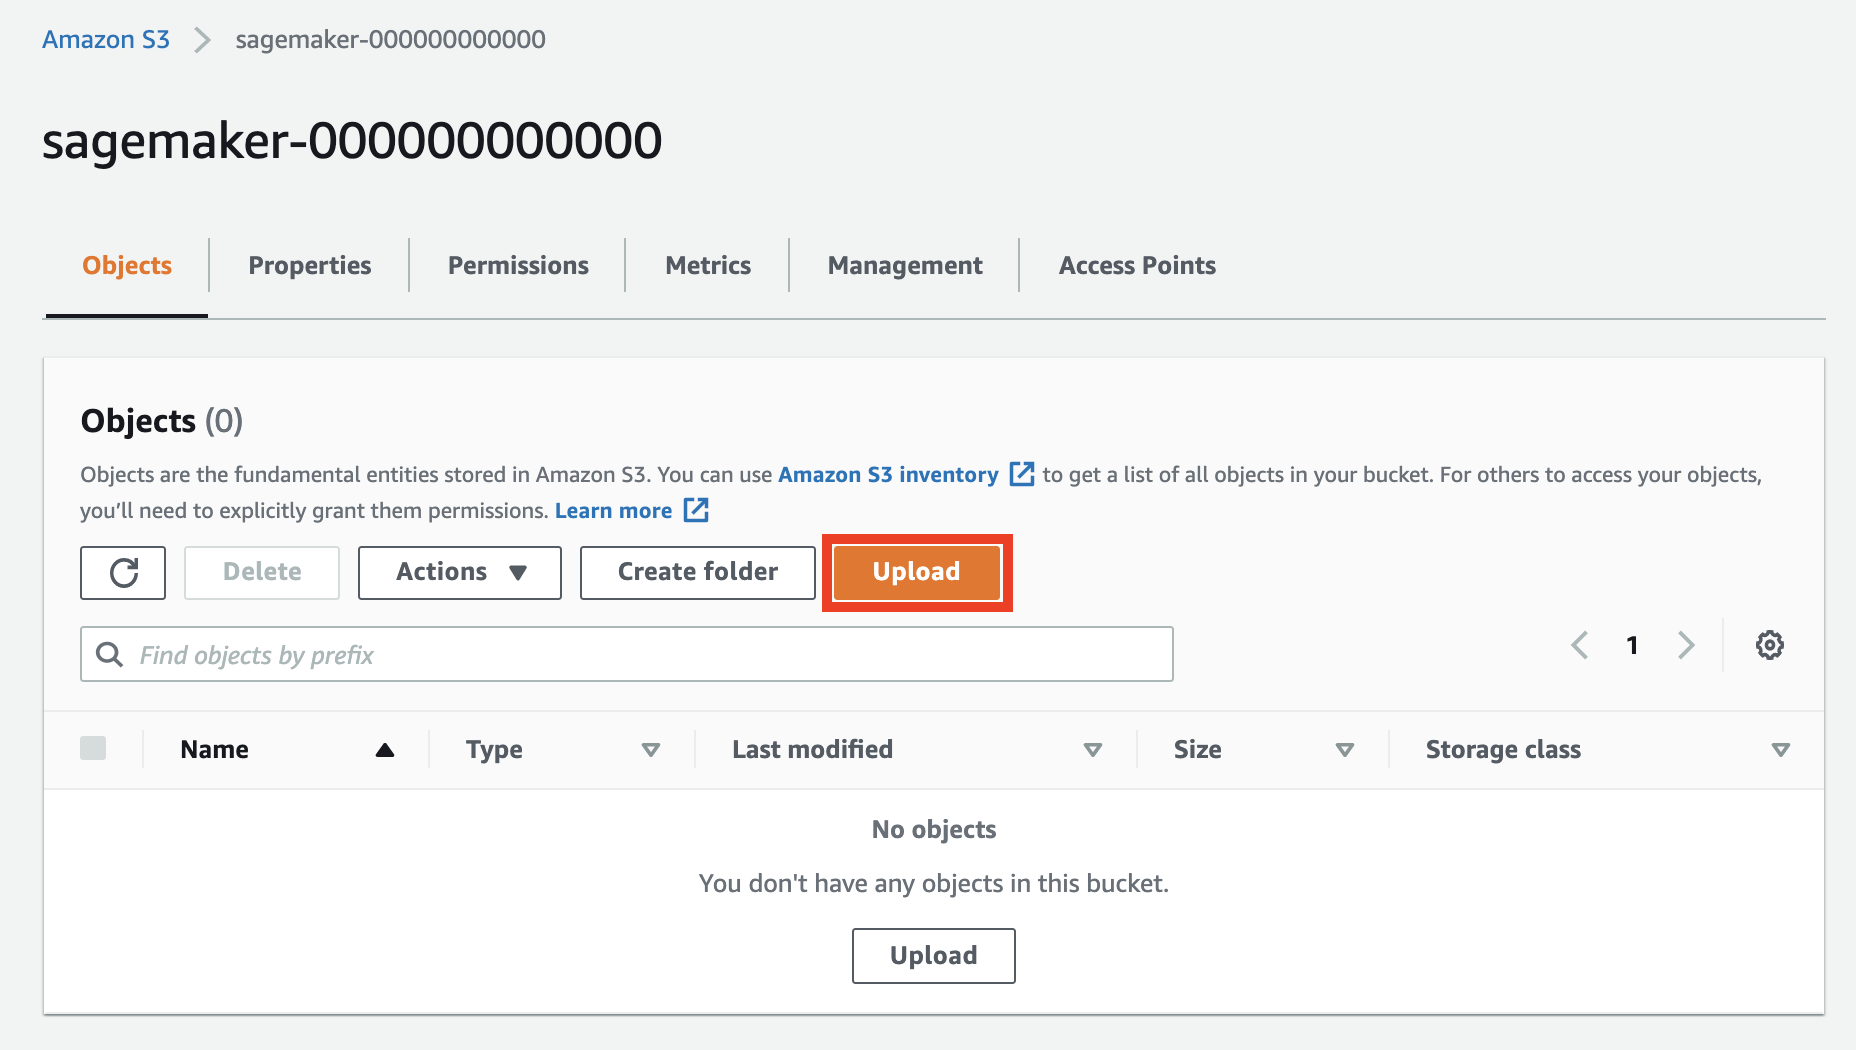
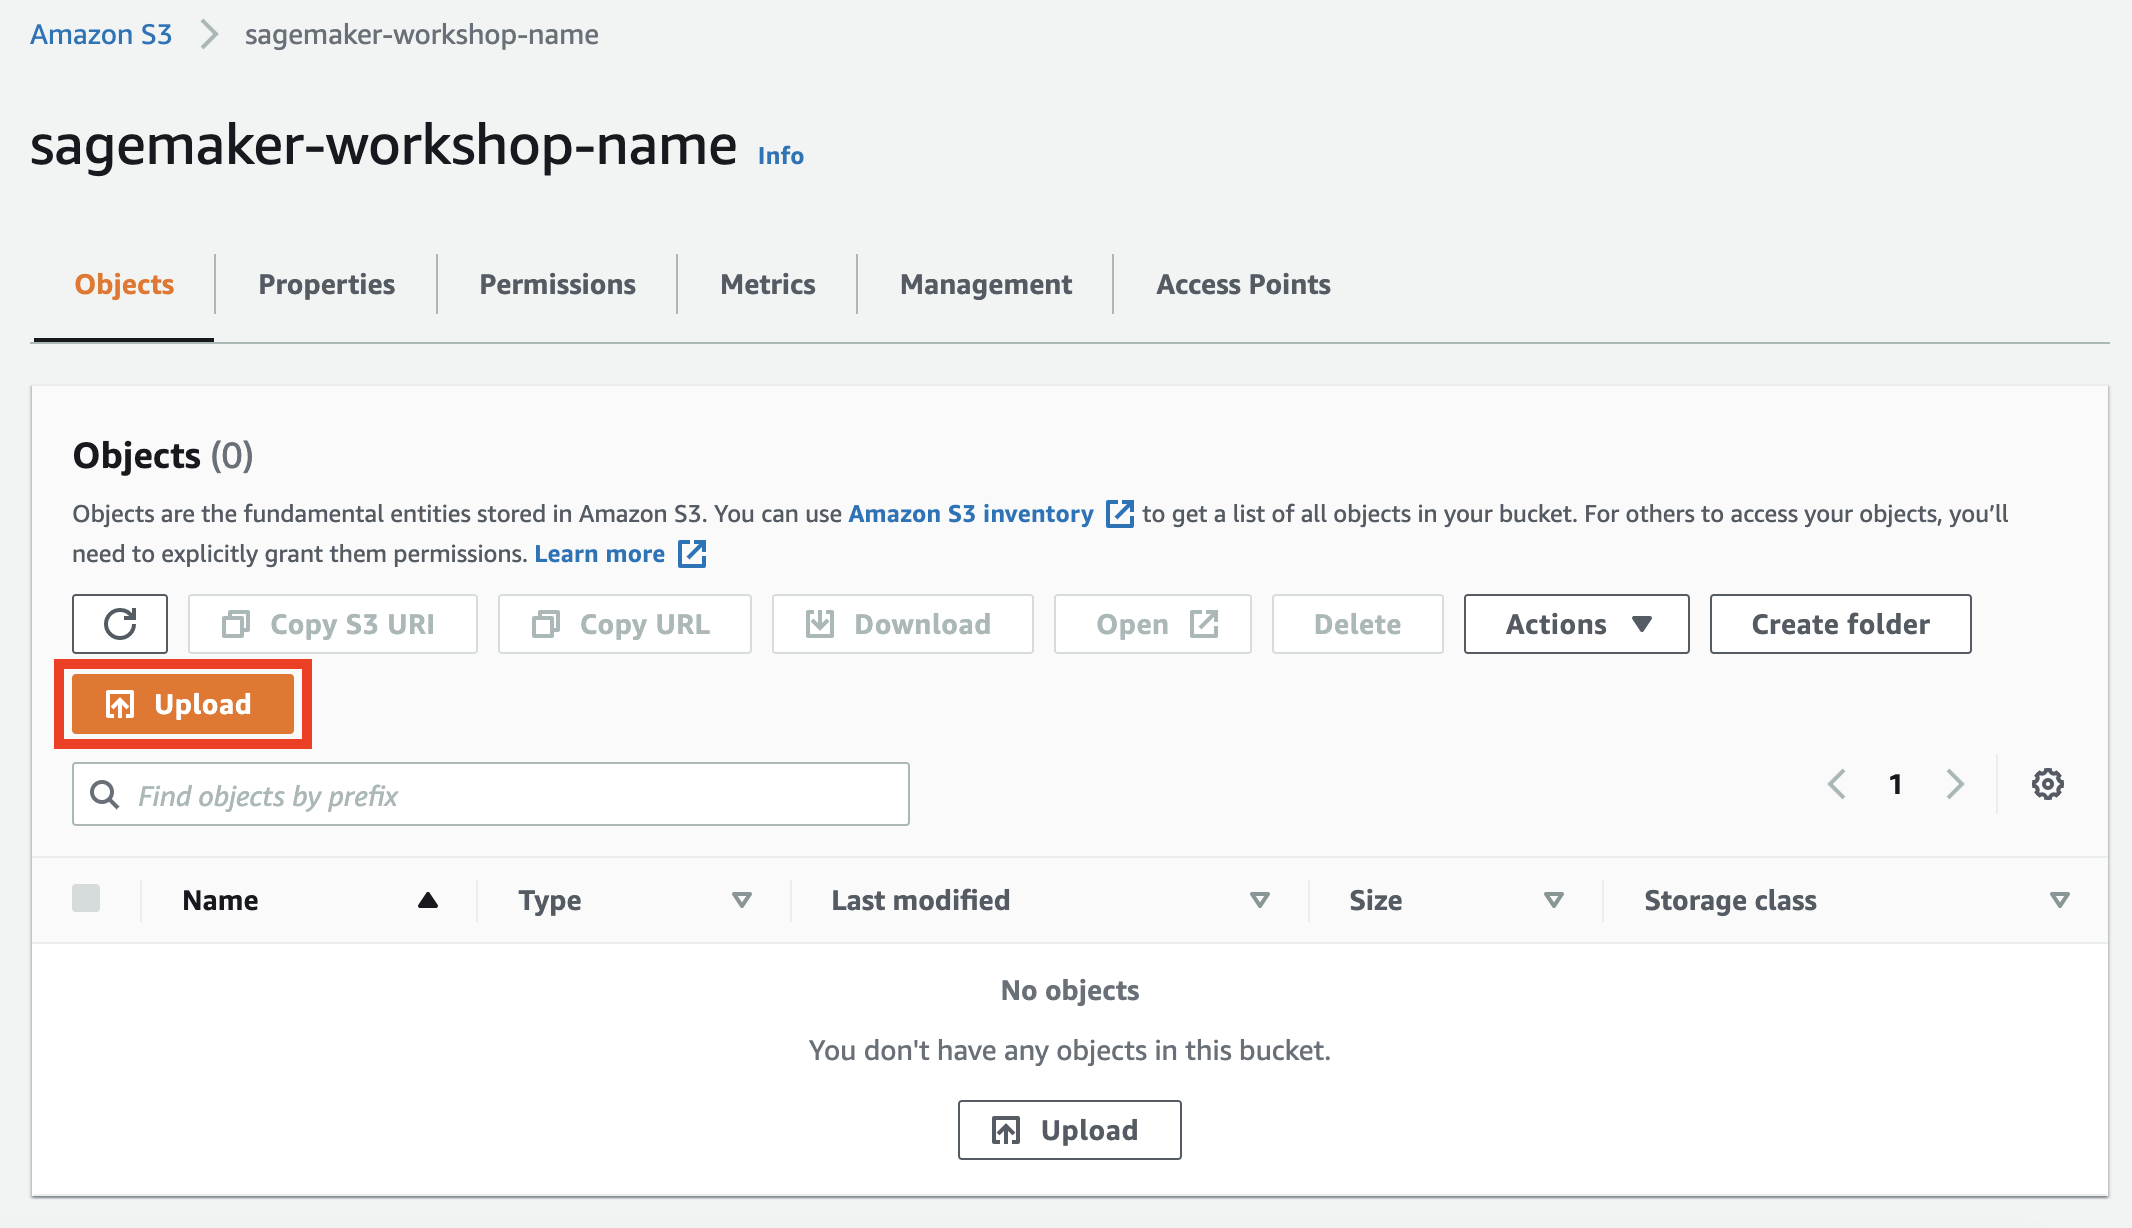
chore: edit location and screenshot

diff --git a/content/10_prerequisite/_index.ko.md b/content/10_prerequisite/_index.ko.md
@@ -8,7 +8,7 @@ pre: "<b>1. </b>"
 
 매년 수십억 건의 은행 거리가 발생하고, 사기인 경우는 거의 없지만 거래를 제대로 탐지하지 않으면 그 피해가 엄청납니다. 피해 비용은 고객과 기업, 그리고 거래를 검증해야하는 금융 규제 당국에게도 막대합니다.
 
-본 실습에서는 **은행 사기 감지** 데이터셋을 처리하여 사기 거래를 자동으로 감지하는 ML 모델을 만듭니다. 이 데이터셋은 아프리카 국가에서 구현한 모바일 거래 시뮬레이션으로 한달 간의 거래 로그에서 추출한 실제 거래 샘플을 기반으로 합니다. 데이터는 [kaggle](https://www.kaggle.com/ntnu-testimon/paysim1)에서 다운로드 할 수 있습니다.
+본 워크에서는 **은행 사기 감지** 데이터셋을 처리하여 사기 거래를 자동으로 감지하는 ML 모델을 만듭니다. 이 데이터셋은 아프리카 국가에서 구현한 모바일 거래 시뮬레이션으로 한달 간의 거래 로그에서 추출한 실제 거래 샘플을 기반으로 합니다. 데이터는 [kaggle](https://www.kaggle.com/ntnu-testimon/paysim1)에서 다운로드 할 수 있습니다.
 
 여기에서는 실습을 보다 쉽게 수행하도록 데이터셋을 가공했습니다. **다음 CSV 파일을 다운로드하면 됩니다.**
 

diff --git a/content/10_prerequisite/11_s3.ko.md b/content/10_prerequisite/11_s3.ko.md
@@ -18,7 +18,7 @@ AWS Management Console에서 [Amazon S3](https://s3.console.aws.amazon.com/s3/ho
 
 2. **Bucket name**과 **AWS Region**을 다음과 같이 입력합니다. 그 다음 하단에 있는 **Create bucket** 버튼을 클릭합니다.  
  
-- Bucket name: `sagemaker-workshop`
+- Bucket name: `sagemaker-workshop-성함`
 - AWS Region: `Asia Pacific (Seoul) ap-northeast-2`
 ![image](/images/10_prerequisite/10_s3/set-config.png)
 
@@ -29,8 +29,9 @@ S3 Bucket 이름은 모든 계정을 통틀어서 고유해야합니다.
 ---
 ## S3로 파일 업로드
 
-1. 생성한 bucket 으로 이동한 후, **banking_fraud.csv** file을 업로드 합니다. 파일을 drag and drop 할 수도 있습니다.
+1. 생성한 bucket 으로 이동한 후, **banking_fraud.csv** file을 업로드 합니다. 파일을 **drag and drop** 할 수도 있습니다.
 ![image](/images/10_prerequisite/10_s3/upload.png)
+![image](/images/10_prerequisite/10_s3/upload2.png)
 
 2. File이 업로드 된 것을 확인합니다.
 ![image](/images/10_prerequisite/10_s3/result.png)

diff --git a/content/20_notebook/22_byom.ko.md b/content/20_notebook/22_byom.ko.md
@@ -1,19 +1,19 @@
 ---
-title: Pre-trained 모델 사용하기
+title: BYOM 사용하기
 weight: 22
 pre: "<b>2-2. </b>"
 ---
 
-본 실습에서는 pre-trained한 mobilenet으로 이미지 분류 모델을 불러옵니다.
+본 실습은 BYOM (Bring Your Own Model) . Pre-trained한 mobilenet으로 이미지 분류 모델을 불러옵니다.
 
 ---
 
 ## Jupyter notebook 실행하기
 
-1. **sagemaker-notebook-examples 폴더** > **2. Image-classification-with-pre-trained-model.ipynb**을 클릭합니다.
+1. **sagemaker-notebook-examples-kr 폴더** > **2. Image-classification-with-pre-trained-model.ipynb**을 클릭합니다.
 ![image](/images/20_notebook/20_pre-trained/pt-notebook.png)
 
-2. **S3 bucket 이름**을 `sagemaker-workshop`으로 입력합니다.
+2. **S3 bucket 이름**을 S3를 생성할 때 사용하셨던 `sagemaker-workshop-성함`으로 변경합니다.
 ![image](/images/20_notebook/20_pre-trained/replace.png)
 
 3. Jupyter notebook에서 **Shift+Enter**로 모든 셀을 실행하고, 모델이 import 된 것을 확인합니다.

diff --git a/content/20_notebook/_index.ko.md b/content/20_notebook/_index.ko.md
@@ -10,11 +10,11 @@ pre: "<b>2. </b>"
 ## Jupyter notebook 다운로드
 
 1. 우측 상단의 **New** 버튼을 클릭하고 **conda_tensorflow2_p36** 커널을 선택해 notebook을 띄웁니다.
-![image](/images/20_notebook/instance.png)
+![image](/images/20_notebook/start-kernel.png)
 
 2. 다음 명령어를 복사하여 셀에서 실행합니다. 셀을 실행하기 위해서는 상단의 **Run** 버튼을 클릭하거나 **Shift+Enter** 키를 누릅니다.
 ```
-git clone https://github.com/jjk-dev/sagemaker-notebook-examples-kr.git
+!git clone https://github.com/jjk-dev/sagemaker-notebook-examples-kr.git
 ```
 ![image](/images/20_notebook/git-clone.png)
 
@@ -24,4 +24,3 @@ git clone https://github.com/jjk-dev/sagemaker-notebook-examples-kr.git
 ---
 
 © 2021 Amazon Web Services, Inc. 또는 자회사, All rights reserved.
-

diff --git a/content/20_notebook/21_xgboost.ko.md b/content/20_notebook/21_xgboost.ko.md
@@ -13,7 +13,7 @@ pre: "<b>2-1. </b>"
 1. **sagemaker-notebook-examples-kr 폴더** > **1. Banking-fraud-with-XGBoost.ipynb**을 클릭합니다.
 ![image](/images/20_notebook/10_xgboost/xgb-notebook.png)
 
-2. **S3 bucket 이름**을 `sagemaker-workshop`으로 입력합니다. 
+2. **S3 bucket 이름**을 S3를 생성할 때 사용하셨던 `sagemaker-workshop-성함`으로 변경합니다. 
 ![image](/images/20_notebook/10_xgboost/replace.png)
 
 3. Jupyter notebook에서 **Shift+Enter**로 모든 셀을 실행합니다. Endpoint을 생성하는 Hosting 부분은 5-10 분 정도 소요됩니다. 

diff --git a/content/_index.ko.md b/content/_index.ko.md
@@ -4,9 +4,7 @@ title: Home
 weight: 5
 chapter: true
 ---
-
 # AMAZON SAGEMAKER NOTEBOOK WORKSHOP
-
 ---
 
 ## Amazon SageMaker 소개
